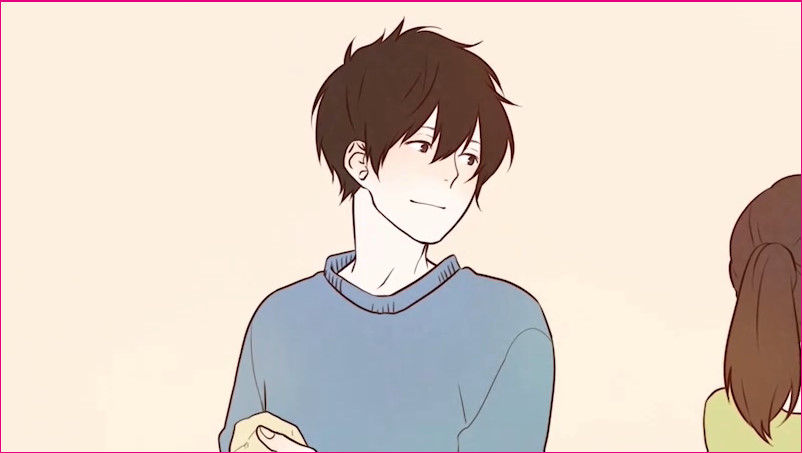
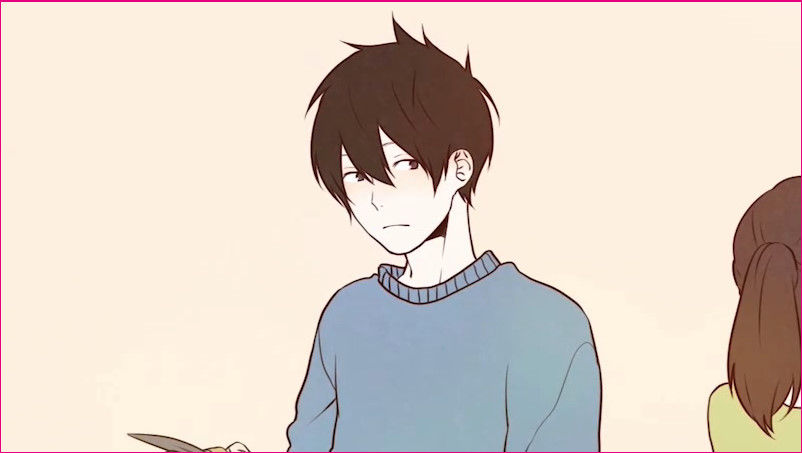
Update scene flow with generic scene objects
Updated the scene object and the sceneSlide function to allow custom scenes to play. Defined a scene object to test the slide function. Added user input window to appear at critical point, once clicked, replays scene with the user input spoken.

diff --git a/canvas.js b/canvas.js
@@ -1,4 +1,48 @@
 /*********************
+CLASS DEFINITIONS
+**********************/
+
+class Scene
+{
+	constructor(imgSource, duration, sounds, confession)
+	{
+		this.duration = duration;
+		this.imgSource = imgSource;
+		this.sounds = sounds; //array of SceneSound objects
+		this.confession = confession;
+	}
+}
+
+class SceneSound
+{
+	constructor(songName, startTime)
+	{
+		this.songName = songName;
+		this.startTime = startTime;
+	}
+
+	playSong()
+	{
+		var audio = new Audio(`${this.songName}.ogg`);
+		//audio.play();
+		console.log(audio);
+		setTimeout
+		(
+			function()
+			{
+				audio.play();
+			},
+			this.startTime
+		);
+	}
+}
+
+/*class SceneImage
+{
+	constructor(imgSource, )
+}*/
+
+/*********************
 CONSTANTS
 **********************/
 
@@ -6,22 +50,72 @@ CONSTANTS
 GLOBAL VARIABLES
 **********************/
 
+let scene_i = 0;
+
+let scenes = 
+[
+	new Scene('1-1', 5000, [new SceneSound('intro', 2000)], false),
+	new Scene('1-2', 2000, null, false),
+	new Scene('1-2b', 2000, null, false),
+	new Scene('1-2c', 2000, null, false),
+	new Scene('1-2b', 2000, null, false),
+	new Scene('1-3', 2000, null, false),
+	new Scene('1-3b', 2000, null, false),
+	new Scene('1-4', 2000, null, false),
+	new Scene('1-4b', 5000, [new SceneSound('plove', 0)], true),
+	new Scene('1-5', 5000, null, false)
+]; //contains individual scene objects
+
+
+
+// var n = 100;
+// var sample = [];
+// for (var i = 0; i < n; i++)
+//     sample.push({});
+
+
+let scene_elem = document.getElementById('scene');
+let line_text_elem = document.getElementById('line-text');
+
+var voiceBox = document.getElementById("voice-box");
+var supportMsg = document.getElementById("msg");
+var confessionButton = document.getElementById("confession-button");
+var playSceneButton = document.getElementById("play-button");
+var speechMsgInput = document.getElementById("speech-msg");
+var voiceSelect = document.getElementById("voice");
+var volumeInput = document.getElementById("volume");
+var rateInput = document.getElementById("rate");
+var pitchInput = document.getElementById("pitch");
+
 /*********************
 EVENT LISTENERS
 **********************/
 
-/*********************
-CLASS DEFINITIONS
-**********************/
-
-class Scene
+if(confessionButton)
 {
-	constructor(duration, imgSource)
-	{
-		this.duration = duration;
-		this.imgSource = imgSource;
-	}
+	confessionButton.addEventListener
+	('click', function(e)
+		{
+			if(speechMsgInput.value.length > 0)
+			{
+				startAnimation();
+			}
+		}
+
+	);
 }
+
+if(playSceneButton)
+{
+	playSceneButton.addEventListener
+	('click', function(e)
+		{
+			startAnimation();
+		}
+
+	);
+}
+
 
 /*********************
 FUNCTIONS
@@ -70,37 +164,53 @@ function speak(text)
 function startAnimation()
 {
 	sceneSlide();
-}
-
-function audioFunction(songName) {
-	var audio = new Audio(`${songName}.ogg`);
-	audio.play();
+	console.log('slide complete');
 }
 
 function sceneSlide()
 {
-	let waitTime = 5000;
-	scene_elem.style.backgroundImage = `url(1-${scene_i + 1}.jpg)`;
-	
+	let waitTime = scenes[scene_i].duration;
+	scene_elem.style.backgroundImage = `url(${scenes[scene_i].imgSource}.jpg)`;
+	if(scenes[scene_i].confession) //handles the scene where user inputs the dialogue
+	{
+		console.log(speechMsgInput.value);
+		if(speechMsgInput.value == '')
+		{
+			voiceBox.style.display = 'initial';
+			scene_i = 0;
+			return;
+		}
+		else
+		{
+			console.log('second round');
+		}
+		
+	}
+
+	if(scenes[scene_i].sounds) //if the scene has sounds, iterate through them and play them
+	{
+		for(let sound_i = 0; sound_i < scenes[scene_i].sounds.length; sound_i++)
+		{
+			scenes[scene_i].sounds[sound_i].playSong();
+		}
+	}
+
 	console.log(scene_i);
 
-	switch(scene_i) {
-    case 0:
-        audioFunction('intro');
-        break;
-    case 3:
-    	speak(speechMsgInput.value);
-    	line_text_elem.innerHTML = speechMsgInput.value;
-    	break;
-    case 4:
-    	line_text_elem.innerHTML = '';
-    	audioFunction('plove');
-    	break;
-}
+	/*switch(scene_i)
+	{
+	    case 3:
+	    	speak(speechMsgInput.value);
+	    	line_text_elem.innerHTML = speechMsgInput.value;
+	    	break;
+	    case 4:
+	    	line_text_elem.innerHTML = '';
+	    	break;
+	}*/
 
 	scene_i++
 
-	if(scene_i < scene_array.length)
+	if(scene_i < scenes.length)
 	{
 		setTimeout('sceneSlide()', waitTime);
 	}
@@ -110,18 +220,11 @@ function sceneSlide()
 	}
 }
 
-let scene_i = 0;
-let scene_array = ['1-1','1-2','1-3','1-4','1-5'];
-let scene_elem = document.getElementById('scene');
-let line_text_elem = document.getElementById('line-text');
-
-var supportMsg = document.getElementById("msg");
-var button = document.getElementById("speak");
-var speechMsgInput = document.getElementById("speech-msg");
-var voiceSelect = document.getElementById("voice");
-var volumeInput = document.getElementById("volume");
-var rateInput = document.getElementById("rate");
-var pitchInput = document.getElementById("pitch");
+function audioFunction(songName)
+	{
+		var audio = new Audio(`${songName}.ogg`);
+		audio.play();
+	}
 
 if('speechSynthesis' in window)
 {
@@ -140,13 +243,4 @@ window.speechSynthesis.onvoiceschanged = function(e)
 		loadVoices();
 	};
 
-button.addEventListener('click', function(e)
-	{
-		console.log(speechMsgInput.value.length);
-		if(speechMsgInput.value.length > 0)
-		{
-			speak(speechMsgInput.value);
-		}
-	}
-
-);
+// startAnimation();

diff --git a/index.html b/index.html
@@ -36,19 +36,12 @@
 						<input type="range" min="0" max="2" step="0.1" name="pitch" id="pitch" value="1" />
 					</div>
 					<!-- END FORM BOX -->
-					<button id="speak">Speak</button>
+					<button id="confession-button">Watch Scene</button>
 				</div>
-
+				<button id="play-button">Watch Scene</button>
 				<p id = "line-text"></p>
 			</div>
 		</div>
-		<form>
-	      <span>What will he say?</span>
-	      <br/>
-	      <input id="line-text-input" type="text"><br/>
-
-	    </form>
-		<button onclick="startAnimation()">Click me</button>
 	</div>
 
 	<script src="canvas.js"></script>

diff --git a/main.css b/main.css
@@ -62,7 +62,7 @@ form
 
 	border: 3px solid #ff0066;
 	border-radius: 15px;
-
+	background-repeat: no-repeat;
 
 }
 
@@ -89,7 +89,7 @@ form
 	box-shadow: 0 2px 10px rgba(0,0,0,0.8);
 	margin-top: 100px;
 
-	/*display: none;*/
+	display: none;
 }
 
 h1
